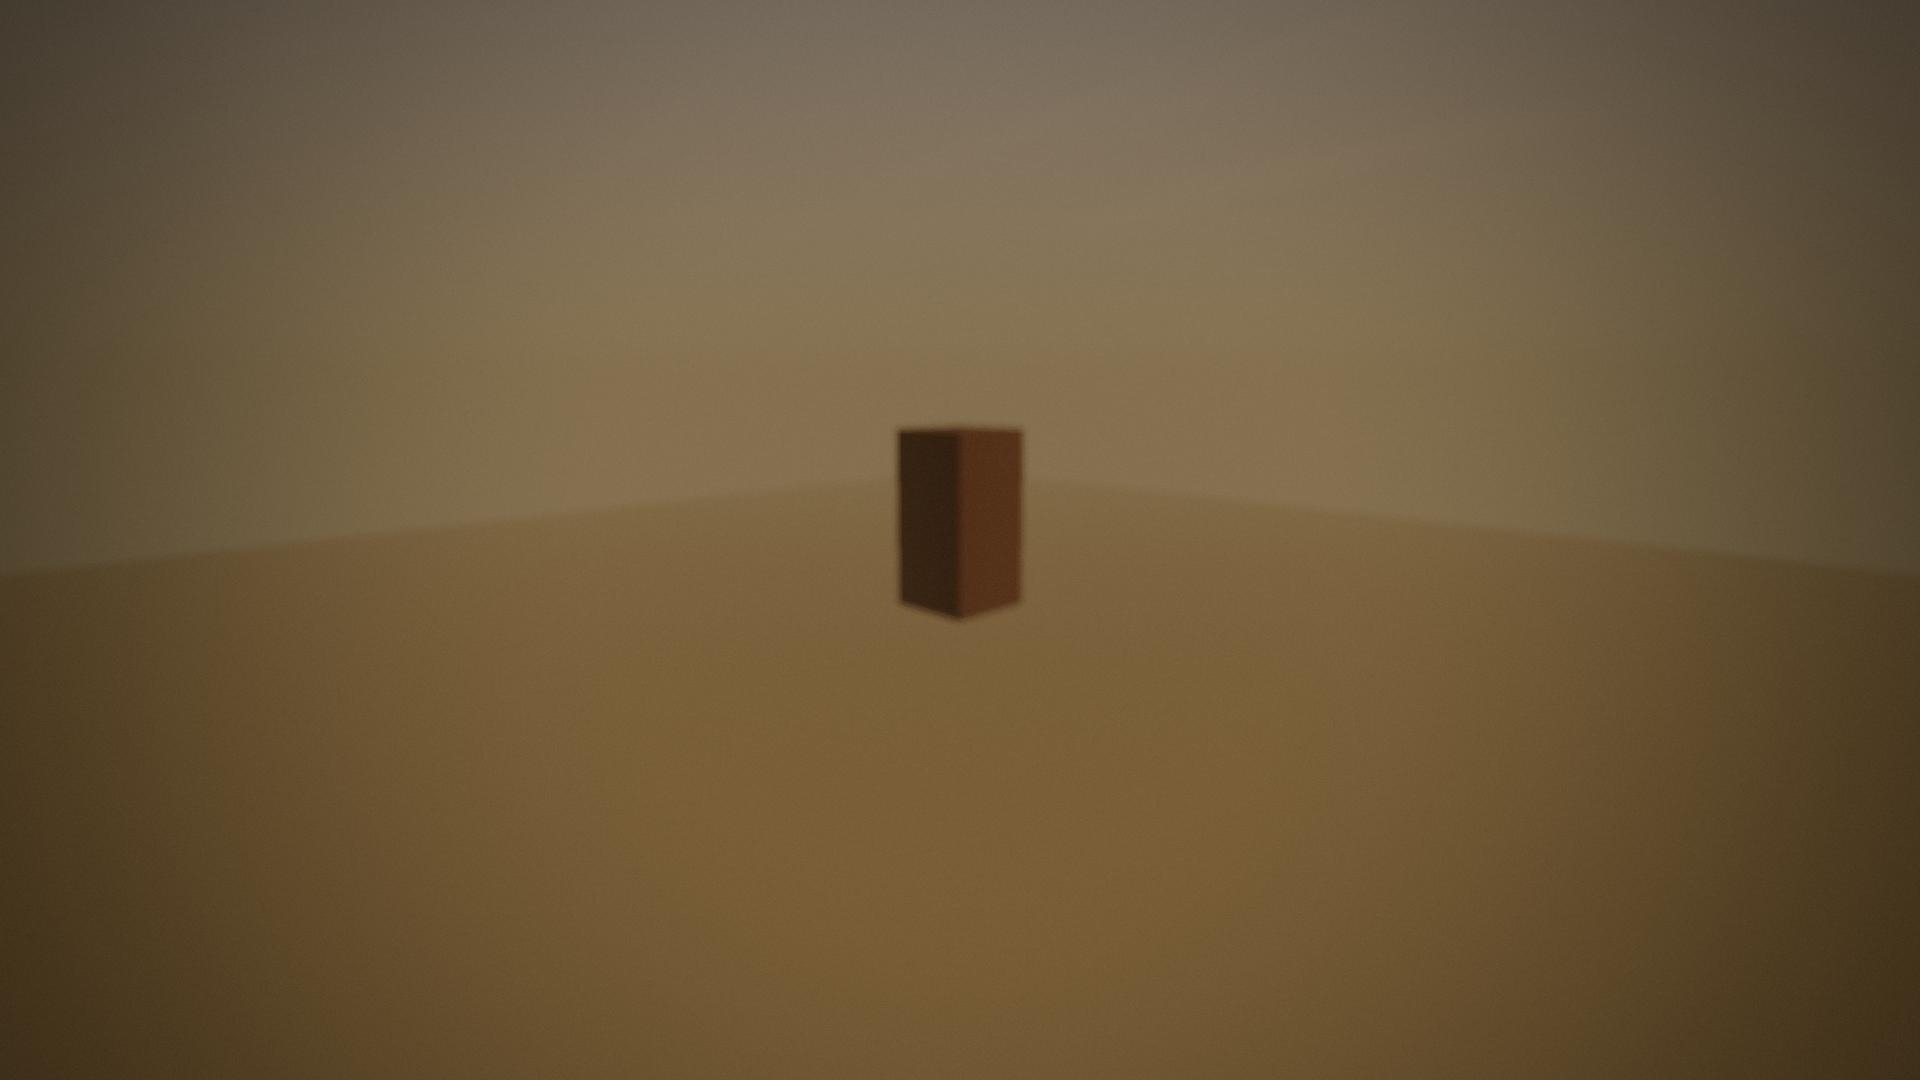
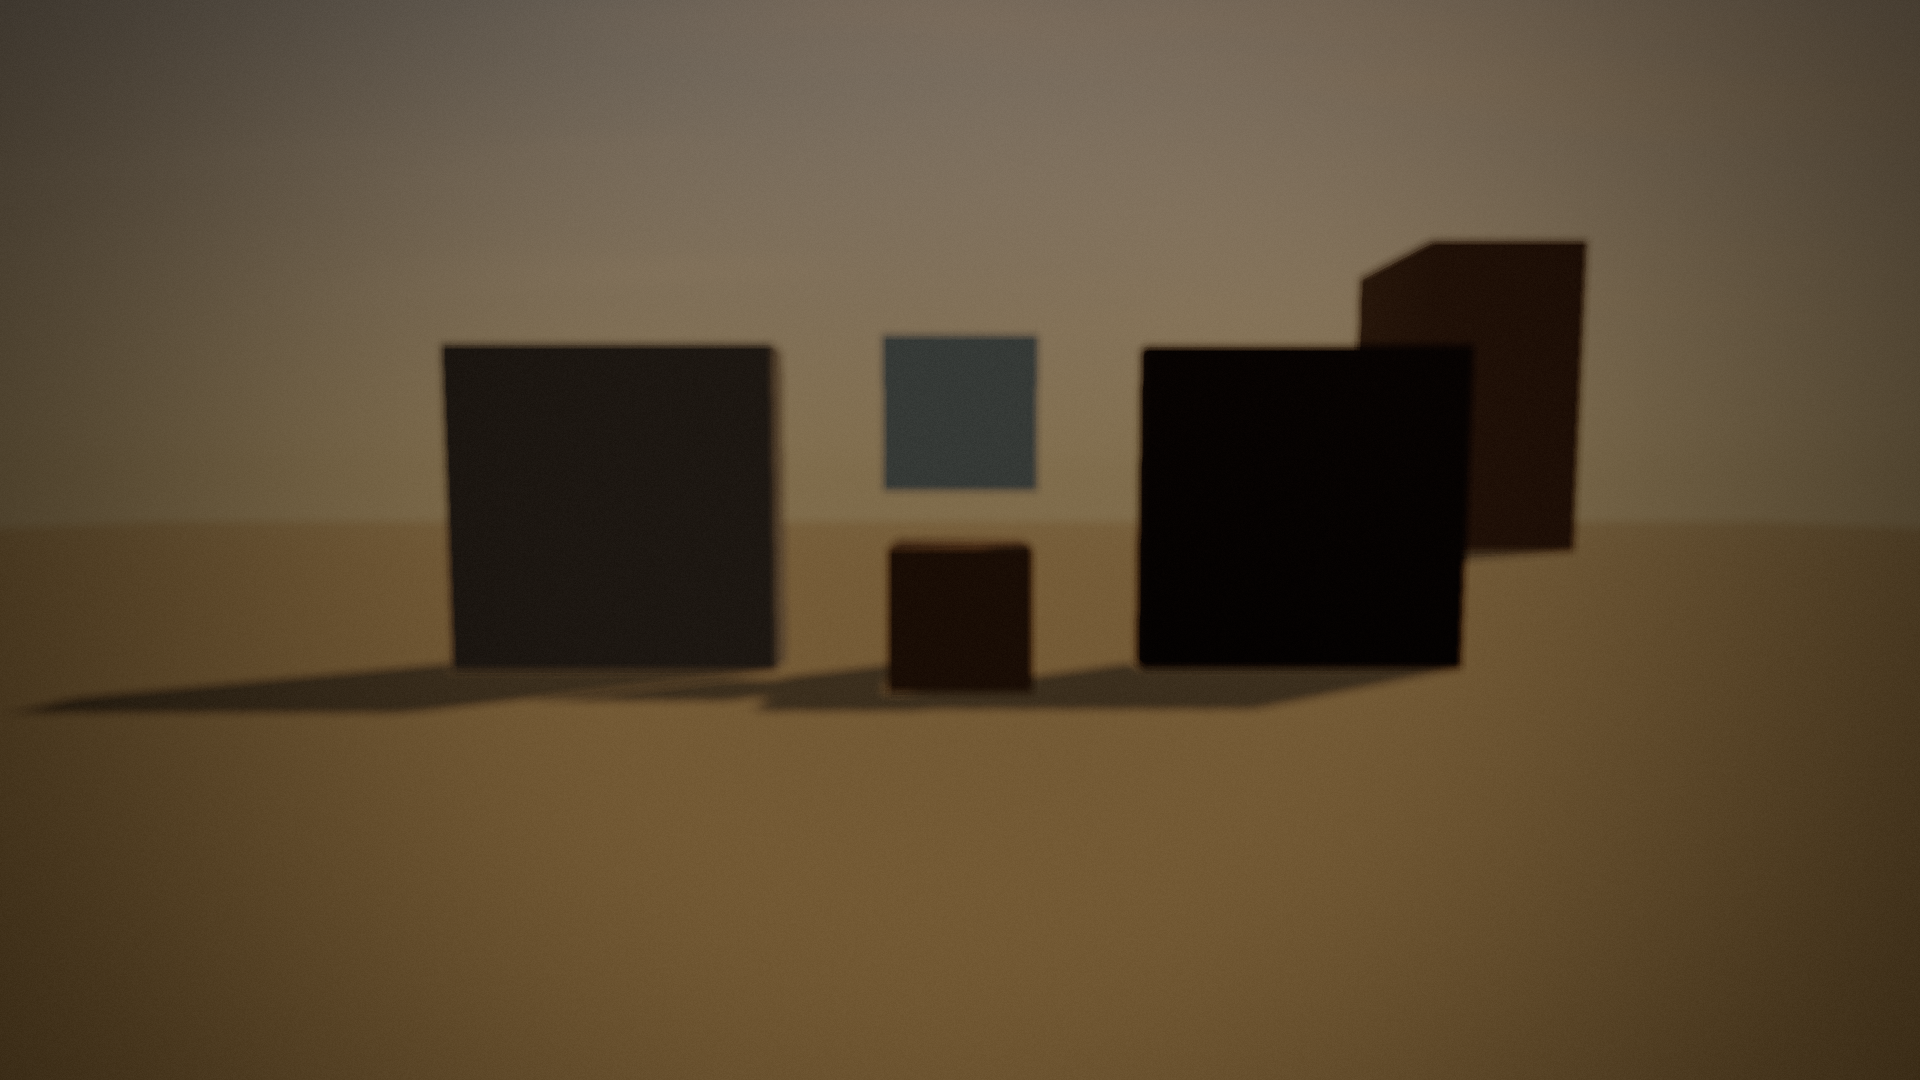
render: final FX polish, 3 pooled lights, render agent report + screenshots
Claude-Session: https://claude.ai/code/session_01Thf9A7Wd1QfHudzZVt1NSq

Changed region(s): [[0.0312, 0.2139, 0.8438, 0.6722]]

diff --git a/src/render/fx/effects.ts b/src/render/fx/effects.ts
@@ -15,7 +15,8 @@ const STREAK_GLOW = 0
 const STREAK_SHARD = 1
 const STREAK_CONE = 2
 
-const LIGHTS = 4
+/** Pooled flash lights (constant count so materials never recompile). */
+const LIGHTS = 3
 const _o = new Vector3()
 const _d = new Vector3()
 const _n = new Vector3()
@@ -817,6 +818,7 @@ export class Effects {
     }
     // a breath of gun smoke
     if (camD < 40) {
+      this.lightAt(origin)
       s.reset()
       s.x = origin.x + dir.x * 0.2
       s.y = origin.y + dir.y * 0.2

diff --git a/docs/agent-reports/render.md b/docs/agent-reports/render.md
@@ -1,0 +1,43 @@
+# RENDER agent report
+
+## What I built
+**GameRenderer** (`renderer.ts`, `sky.ts`, `post.ts`). The public API is unchanged, and I added `setViewmodelSunVisibility`.
+- WebGL with sRGB output. Tone mapping and grading happen in the post chain on HalfFloat buffers. Soft PCF sun shadows are fitted to ±52 m (4096 on high).
+- Sky dome shader: grey-blue zenith, peach horizon, tan haze band, HDR sun disc with Mie glow, faint cirrus. The fog chunk is patched to add the same sun in-scatter, so fog blends into the horizon. A PMREM env map is baked from the sky. I brightened its ground bounce this session because the lower half of metal objects reflected near black.
+- The viewmodel pass renders into the same HDR buffer with depth cleared, so it never clips into walls and gets the same grade.
+
+**Effects** (`fx/effects.ts`, `fx/decals.ts`, `fx/particles.ts`, `fx/atlas.ts`). All pooled:
+- One billboard batch (2400) and one streak batch (1200), one draw call each.
+- One decal InstancedMesh (220, 4×4 procedural atlas). The oldest decals fade out, and metal holes have a hot rim that cools.
+- 3 fixed point lights.
+- Impacts per surface: sand (dust, spout, grains), concrete (dust, bouncing chips, the odd spark), metal (sparks with gravity and bounce, flash), wood (splinters), glass (shards, glints), water, and flesh (blood mist, droplets, wall and floor blood decals). Particles are shaded by a one-ray sun/shadow test.
+- Tracers: only some are shown (1 in 4 for the player, 1 in 3 for bots). Bot tracers that pass within 3.5 m of the camera are always shown and brighter, and they fade near the lens.
+- Bot muzzle flash: star, cone, glow, a puff of smoke and a light. The player's shots get a light flash near the camera.
+- Grenades: flash, eroding fireball, drifting smoke column, ground dust ring, debris, sparks, scorch decal, light, shake and white-flash scaled by distance.
+- Ambient dust motes and wind-blown sand wisps. A sun-visibility probe runs at 30 Hz. Everything freezes when `dt = 0`.
+
+Fixed this session:
+- Streak ribbons were back-face culled and never rendered. They now render double-sided.
+- Puffs sliced visibly through walls. Their depth is now biased toward the camera, a cheap stand-in for soft particles.
+- The blood overlay was a polka-dot texture. It is now a noise-based blood smear around the screen edges.
+
+## Post chain order
+World RenderPass → viewmodel RenderPass (depth cleared) → mipmap Bloom (threshold 1.05) → MW2ScreenFX (blur for menu/death/ADS, edge chromatic aberration, exposure, ACES, contrast S-curve, −14 % saturation, teal shadows / warm highlights, lift/gamma/gain, vignette, blood/death/menu overlays, grain, flash white-out) → SMAA.
+
+## Measured (headless SwiftShader, so real-GPU FPS was not measured)
+- Test scene: 33–37 draw calls, about 3.2k triangles, 16–17 programs. FX adds 3 draw calls in total.
+- CPU stress test: 4 grenades plus 180 bullets (734 live billboards, 184 decals).
+  - `fx.update`: 1.34 ms per frame on average, worst 11.8 ms (the first frame).
+  - Emitting all of those events: 16.8 ms total.
+- No console errors. The only warnings are the BVH `maxLeafSize` deprecation in core.
+
+## Known issues
+- The map is still a stub at 02e0051, so tuning was done on test blocks. The particle light level and the flash and fireball intensities may need another pass on the real Rust map.
+- Particles are not true soft particles (no depth texture). Small hard intersections remain.
+- Particle collision allocates through `CollisionWorld.raycast` (it clones vectors), capped at 40 rays per batch per frame.
+- `src/ui/ui.css` is missing at this commit and the game won't boot without it. I used an uncommitted local stub to test.
+
+## CORE REQUESTS
+1. `CollisionWorld.raycast`: add an allocation-free variant that writes into an `out` object. It is hot in FX and AI.
+2. Switch the BVH option `maxLeafSize` to `targetLeafSize`.
+3. Optionally emit `weapon:fire` with the world-space muzzle point for the player too. The player light is currently placed at a fixed offset from the camera.
